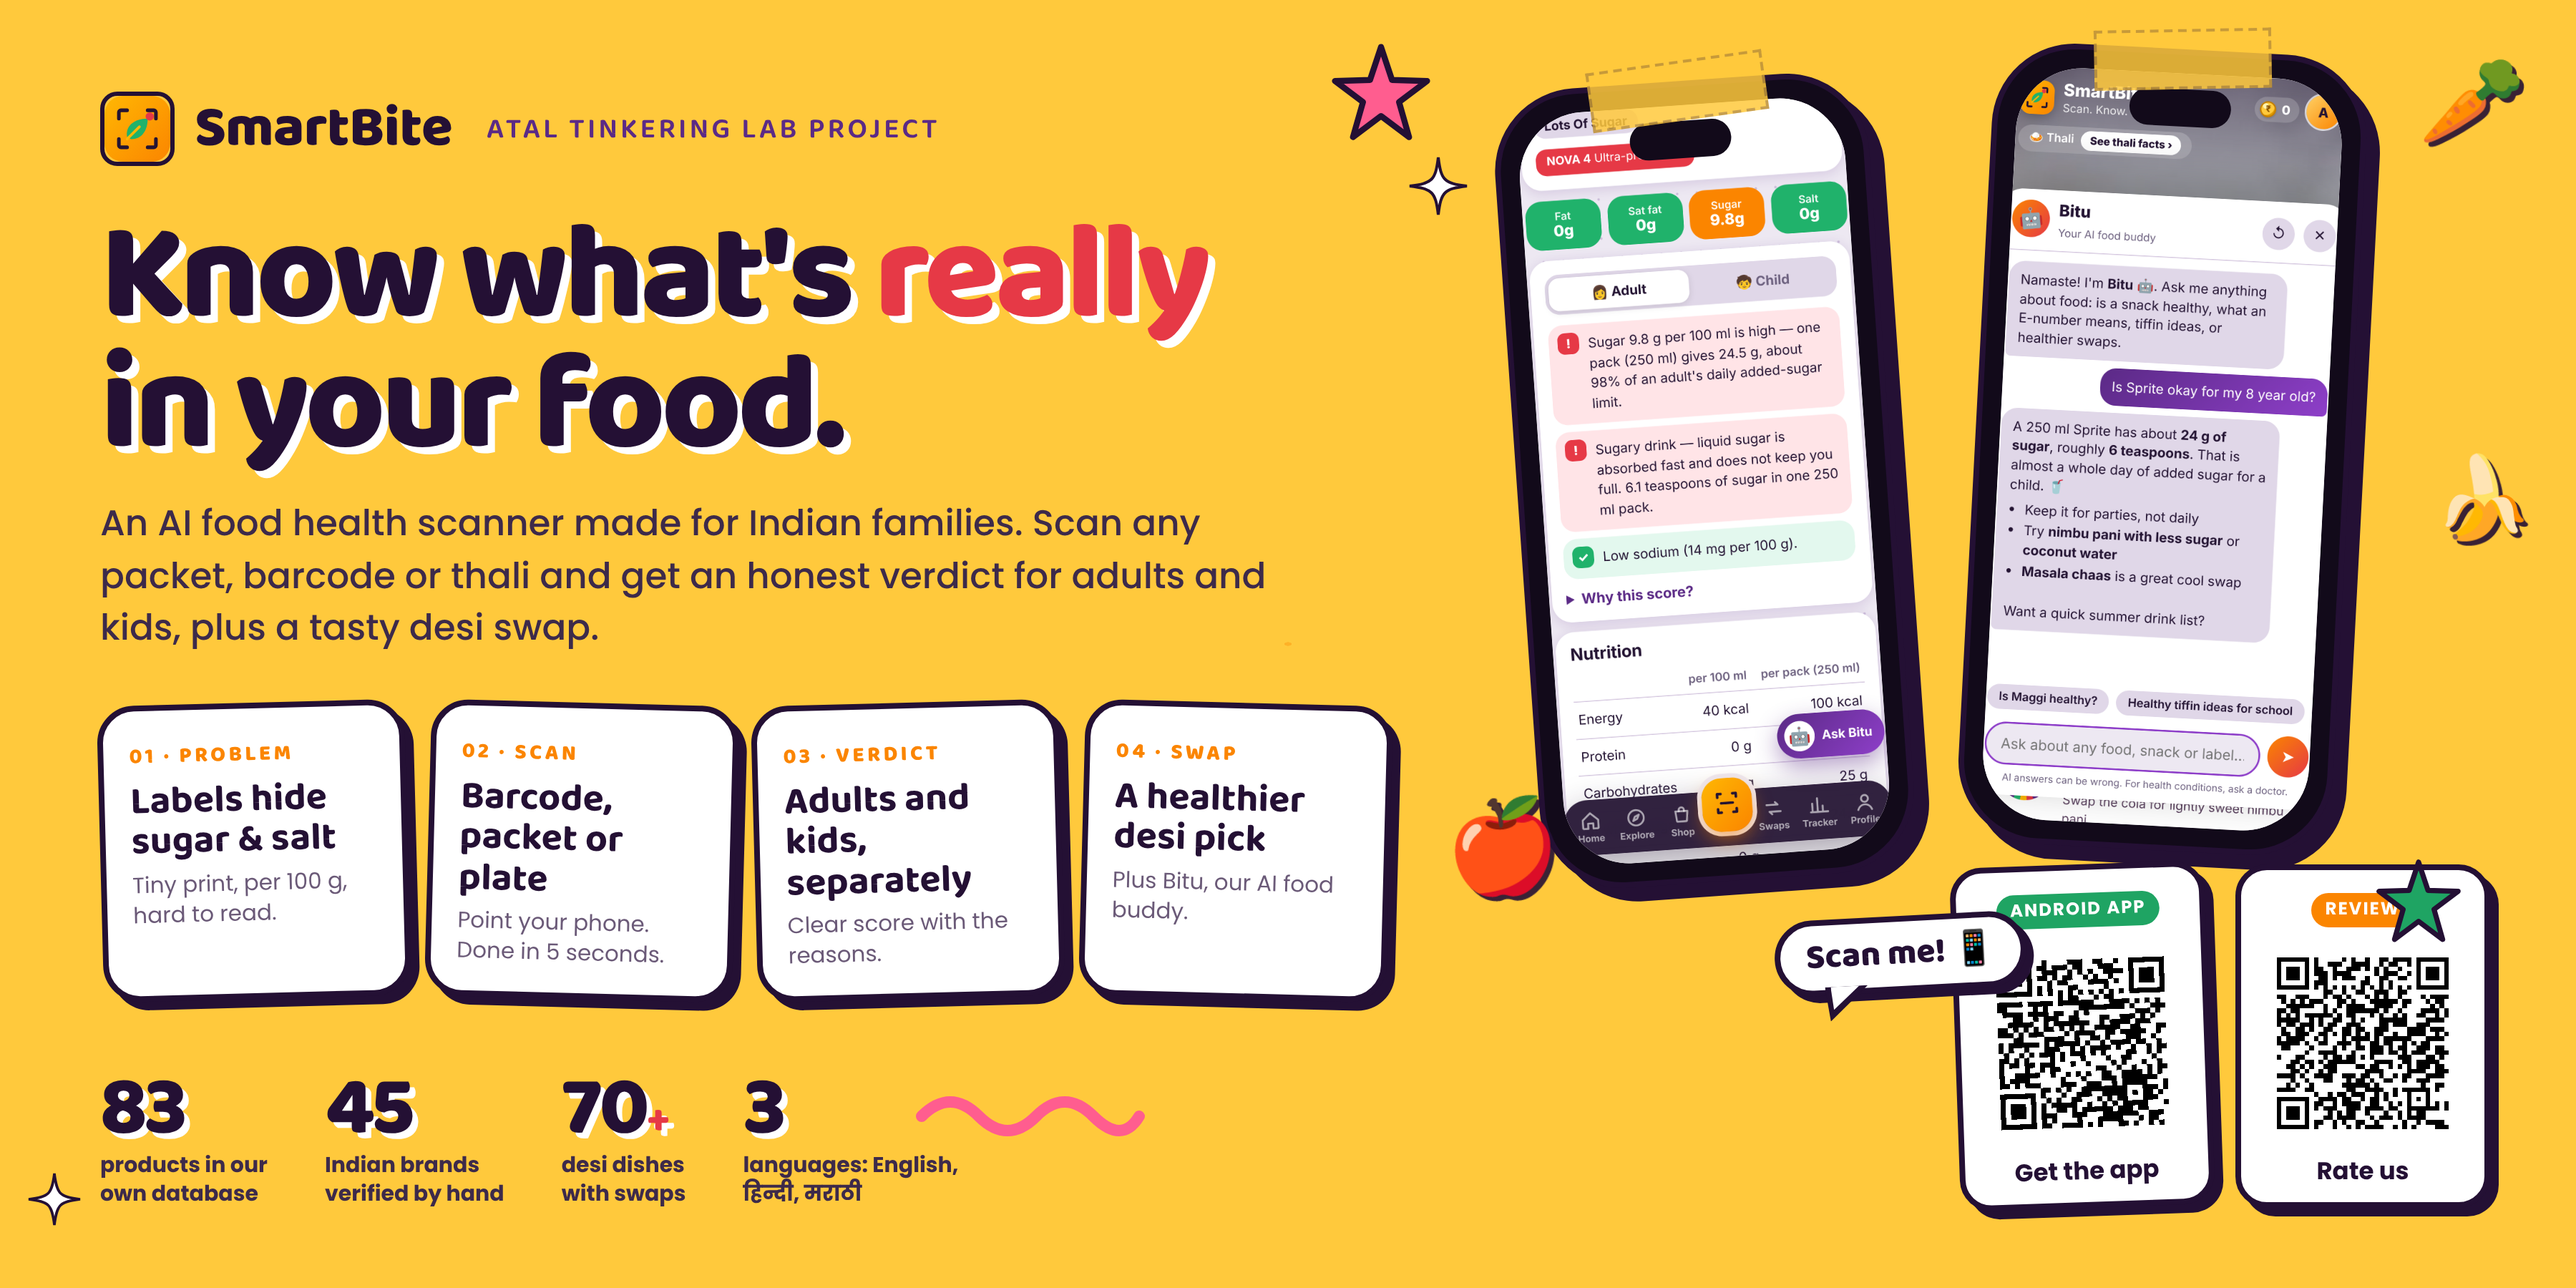
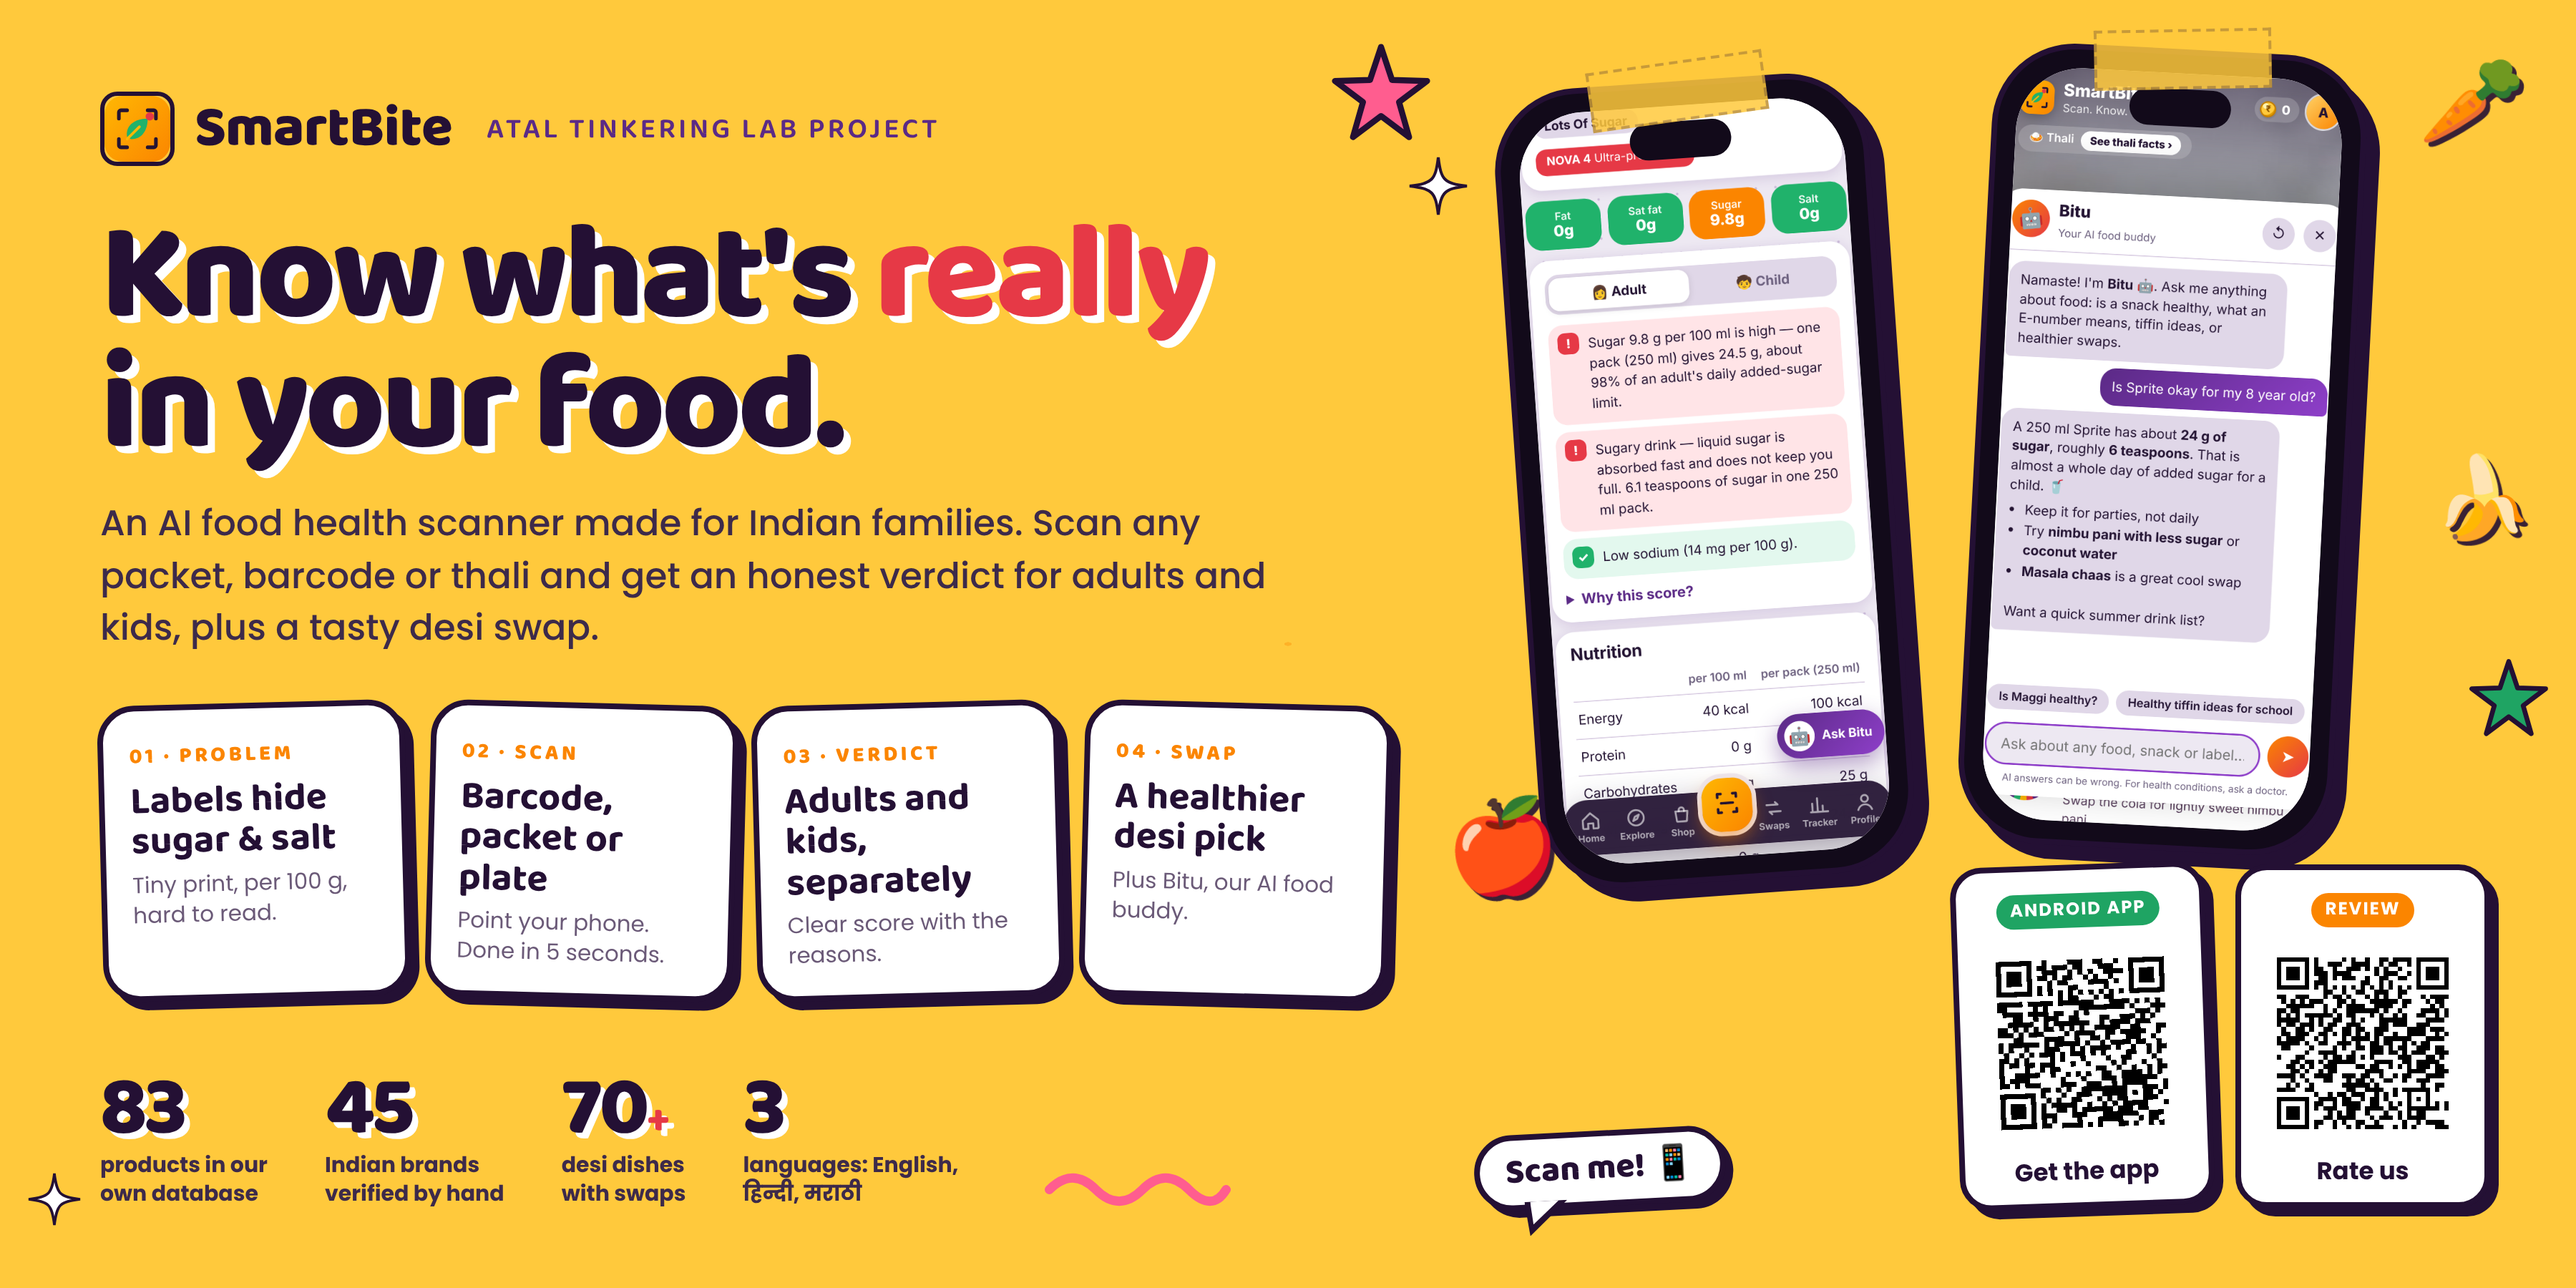
Kids story set: move stickers clear of QR codes
Claude-Session: https://claude.ai/code/session_017FdLSCuszQAFZZFo2xd4Br

diff --git a/marketing/project-story/source/story-kid.html b/marketing/project-story/source/story-kid.html
@@ -334,9 +334,9 @@ const spark=(c,s)=>`<svg width="${s}" height="${s}" viewBox="0 0 100 100"><path 
 const add=(id,html)=>document.getElementById(id).insertAdjacentHTML('beforeend',html);
 const D=(x,y,inner,cls='')=>`<div class="dd ${cls}" style="left:${x}px;top:${y}px">${inner}</div>`;
 // banner
-add('banner', D(930,30,star('#FF5D8F',70))+D(985,110,spark('#fff',40))+D(1660,600,star('#1FA463',60))+D(640,760,squig('#FF5D8F',160))+D(20,820,spark('#fff',36))
+add('banner', D(930,30,star('#FF5D8F',70))+D(985,110,spark('#fff',40))+D(1725,460,star('#1FA463',56))+D(730,815,squig('#FF5D8F',130))+D(20,820,spark('#fff',36))
  +D(1010,560,'<span style="font-size:64px">🍎</span>','em')+D(1690,40,'<span style="font-size:60px">🥕</span>','em')+D(1700,320,'<span style="font-size:56px">🍌</span>','em')
- +`<div class="kidbubble" style="left:1240px;top:640px;font-size:24px;transform:rotate(-3deg)">Scan me! 📱</div>`);
+ +`<div class="kidbubble" style="left:1030px;top:790px;font-size:24px;transform:rotate(-3deg)">Scan me! 📱</div>`);
 // p1
 add('p1', D(1080,150,star('#FFC93C',80))+D(1150,260,spark('#fff',40))+D(960,1395,'<span style="font-size:64px">🍟</span>','em')+D(1060,1390,'<span style="font-size:70px">🥤</span>','em')
  +`<div class="kidbubble" style="left:740px;top:290px;font-size:30px;transform:rotate(3deg)">Whoa! 😲</div>`);
